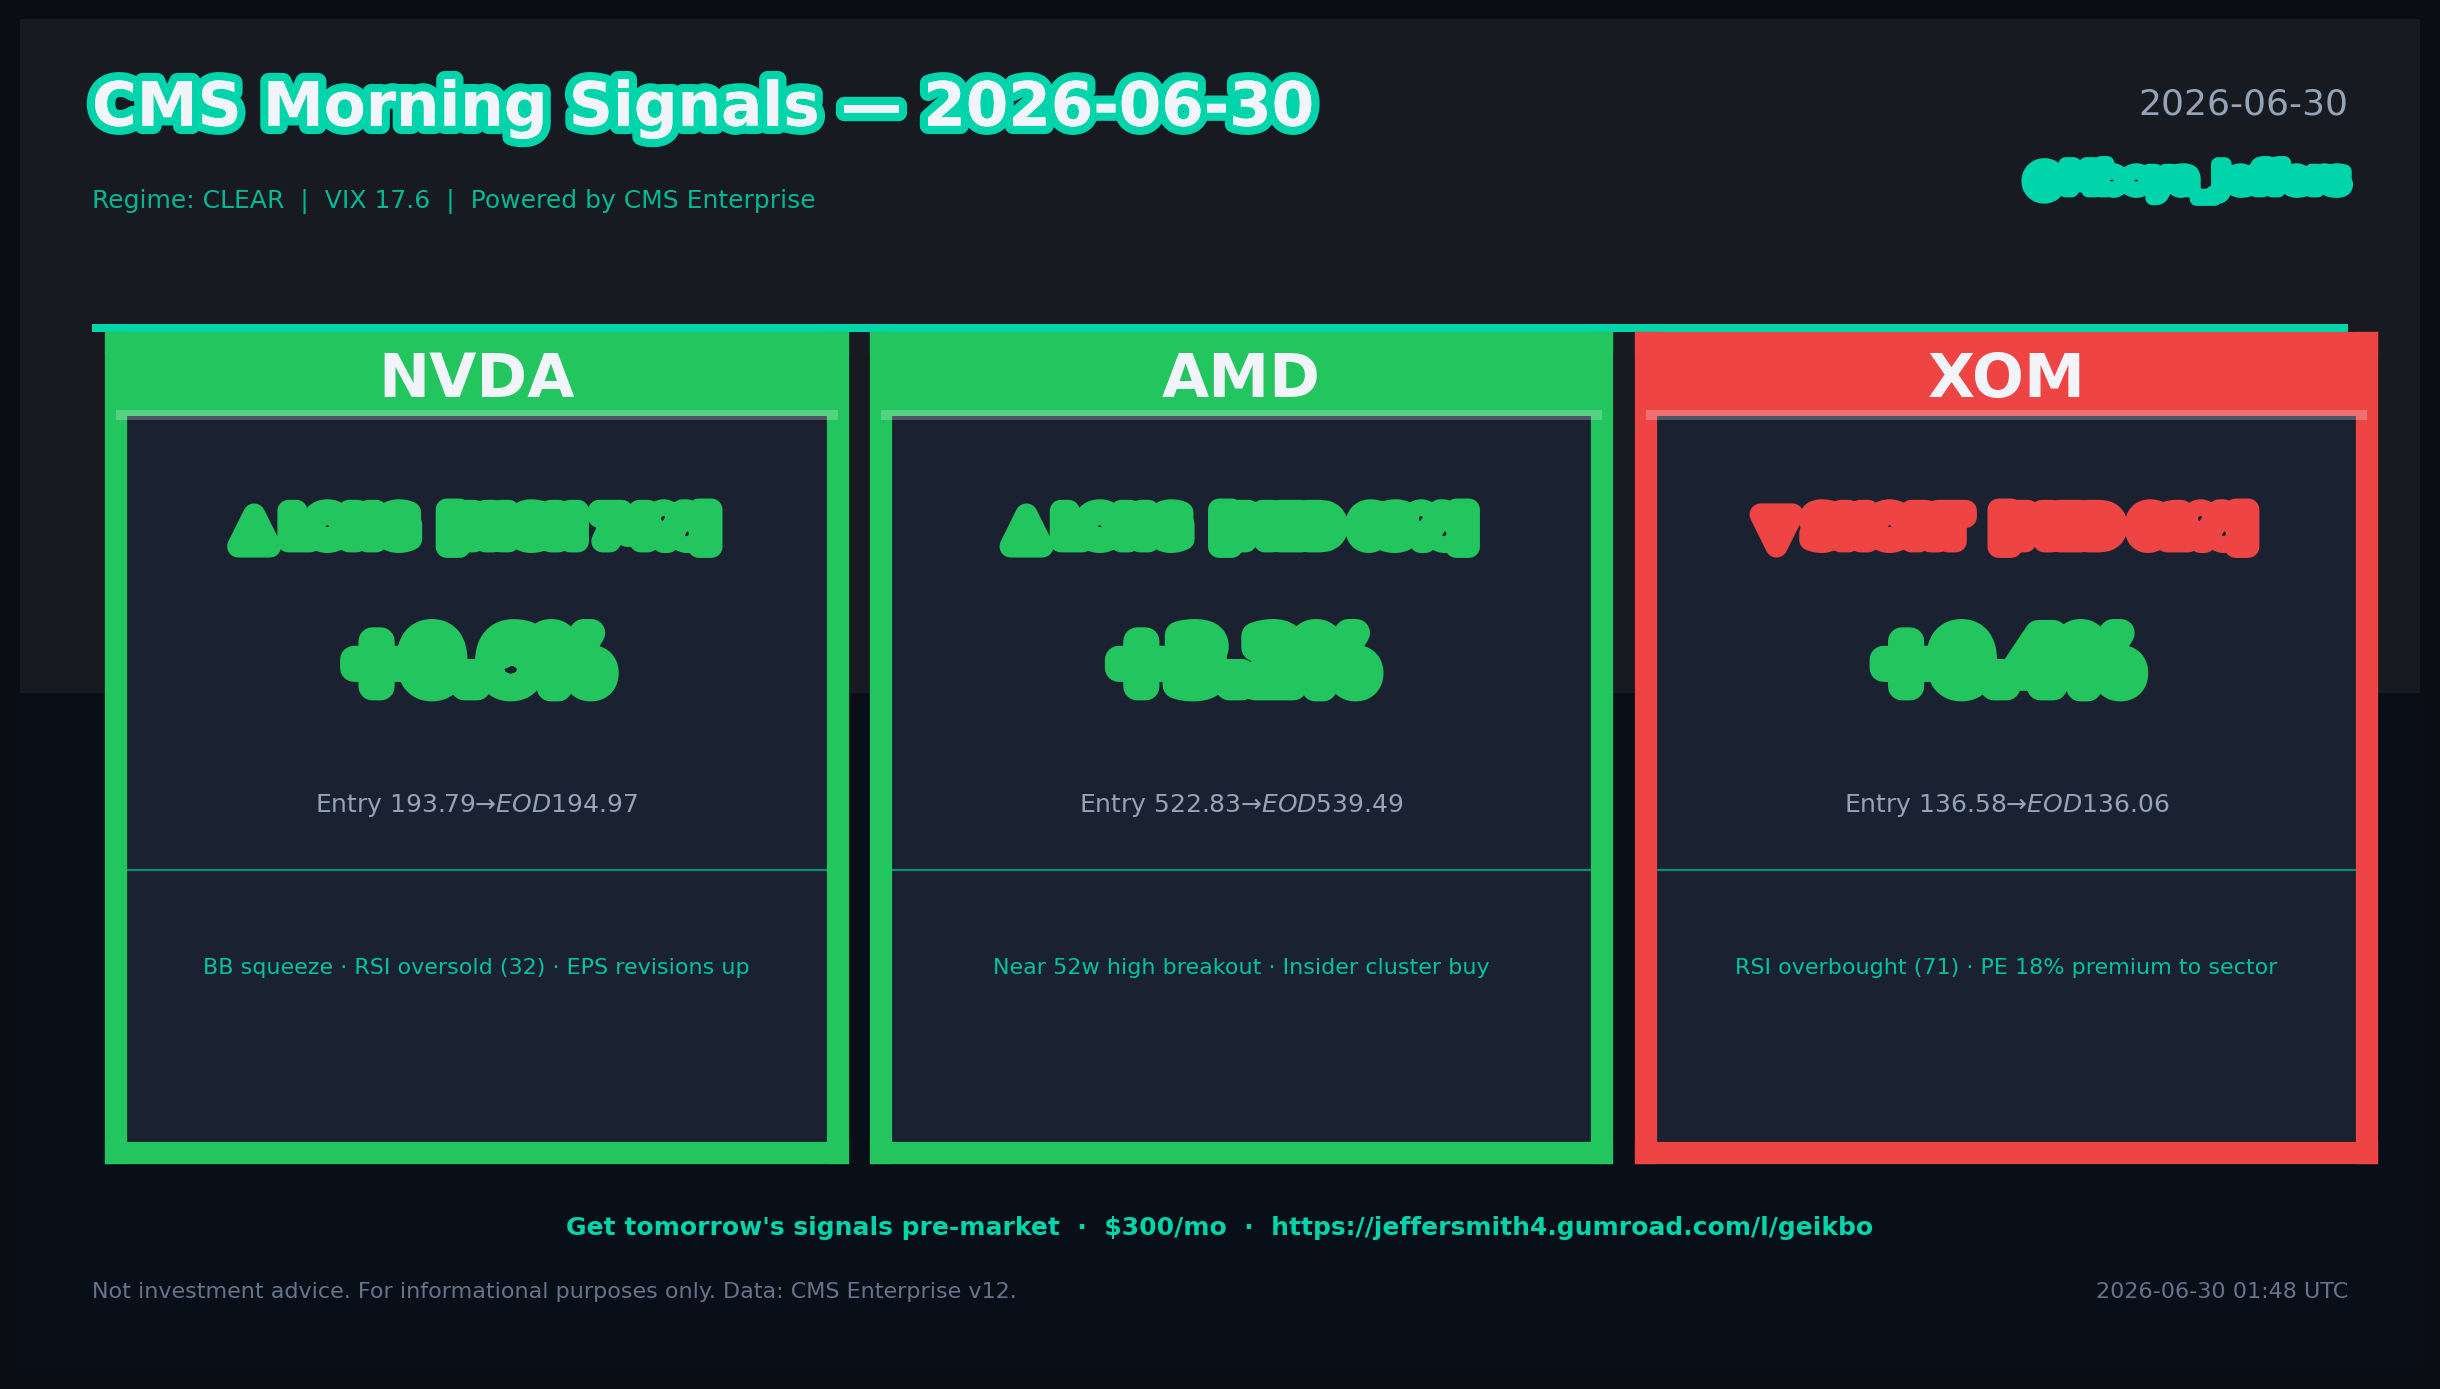
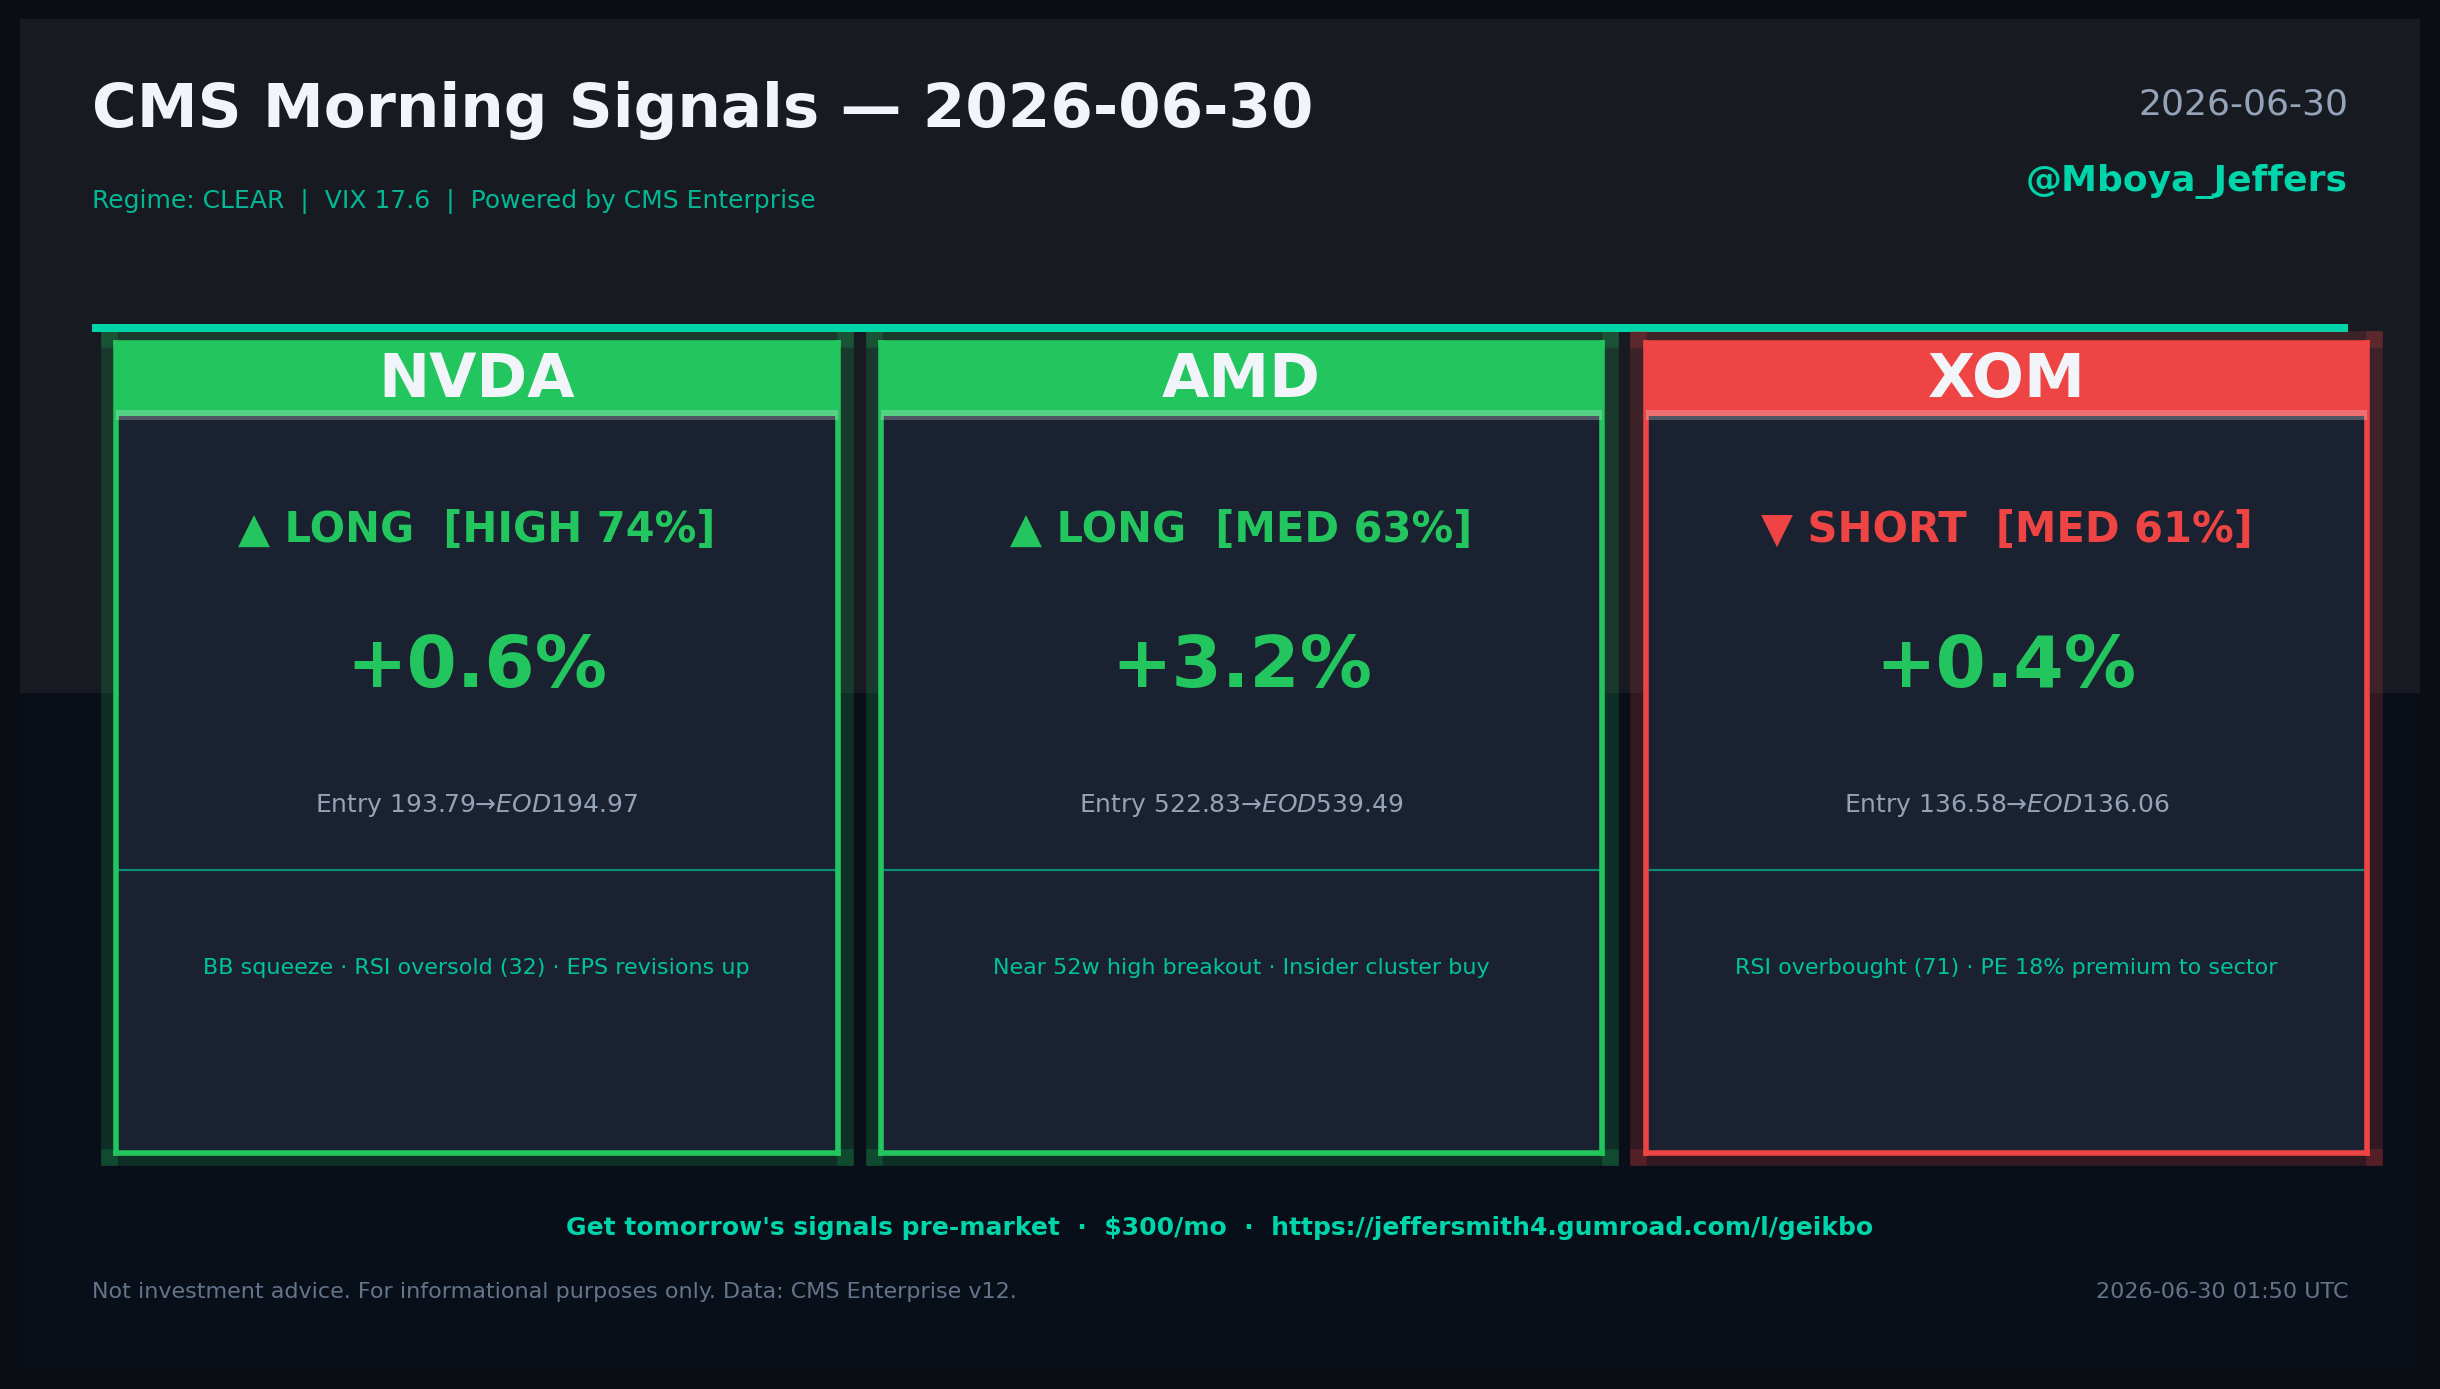
Fix signal block formatting, card showcase component, dark luminescence
- signal-block: s-line divs for proper line separation + spacing, centered max-width
- card-preview: redesigned as CMS-style card component with gradient top border + hover glow
- body::after + .bg-secondary::after: radial glow overlays for dark luminescence
- Updated sample card (clean text, no path_effects bubble letters)

diff --git a/signals/index.html b/signals/index.html
@@ -36,6 +36,21 @@ body {
     overflow-x: hidden;
 }
 
+/* ── DARK LUMINESCENCE ───────────────────────────────────────────────────── */
+body::after {
+    content: '';
+    position: fixed; inset: 0; pointer-events: none; z-index: 0;
+    background:
+        radial-gradient(ellipse 90% 60% at 50% 0%, rgba(0,212,170,0.05) 0%, transparent 65%),
+        radial-gradient(ellipse 60% 40% at 80% 80%, rgba(59,130,246,0.04) 0%, transparent 60%);
+}
+section, .ticker-wrap, .card-preview-section { position: relative; }
+.bg-secondary::after {
+    content: '';
+    position: absolute; inset: 0; pointer-events: none;
+    background: radial-gradient(ellipse 80% 50% at 50% 110%, rgba(0,212,170,0.04) 0%, transparent 65%);
+}
+
 /* ── NAV ──────────────────────────────────────────────────────────────────── */
 nav {
     position: fixed; top: 0; left: 0; right: 0; z-index: 1000;
@@ -193,36 +208,45 @@ h1 {
 }
 .stat-label { font-size: 0.85rem; color: var(--text-muted); margin-top: 0.2rem; }
 
-/* ── CARD PREVIEW ────────────────────────────────────────────────────────── */
-.card-preview-section {
-    padding: 0 2rem 5rem;
-    position: relative; z-index: 1;
+/* ── CARD SHOWCASE ───────────────────────────────────────────────────────── */
+.card-showcase-section {
+    padding: 0 2rem 2rem;
 }
-.card-label {
-    text-align: center;
-    font-family: 'Space Mono', monospace;
-    font-size: 0.72rem; letter-spacing: 0.15em;
-    text-transform: uppercase; color: var(--text-muted);
-    margin-bottom: 1rem;
-}
-.card-preview-inner {
-    max-width: 1000px; margin: 0 auto;
-}
-.card-preview-inner img {
-    width: 100%; border-radius: 12px;
+.card-showcase-wrap {
+    max-width: 1060px; margin: 0 auto;
+    background: var(--bg-card);
     border: 1px solid var(--border-color);
-    box-shadow:
-        0 0 0 1px rgba(0,212,170,0.1),
-        0 20px 60px rgba(0,0,0,0.5),
-        0 0 40px rgba(0,212,170,0.07);
-    display: block;
-    transition: box-shadow 0.3s;
+    border-radius: 16px;
+    padding: 2.5rem;
+    position: relative; overflow: hidden;
+    transition: border-color 0.3s, box-shadow 0.3s;
 }
-.card-preview-inner img:hover {
-    box-shadow:
-        0 0 0 1px rgba(0,212,170,0.22),
-        0 20px 60px rgba(0,0,0,0.6),
-        0 0 60px rgba(0,212,170,0.14);
+.card-showcase-wrap:hover {
+    border-color: var(--accent-cyan);
+    box-shadow: 0 0 40px rgba(0,212,170,0.08), 0 20px 60px rgba(0,0,0,0.4);
+}
+.card-showcase-wrap::before {
+    content: '';
+    position: absolute; top: 0; left: 0; right: 0; height: 2px;
+    background: var(--gradient-1); opacity: 0.6;
+}
+.card-showcase-label {
+    display: flex; align-items: center; gap: 0.75rem;
+    margin-bottom: 1.5rem;
+}
+.card-showcase-tag {
+    font-family: 'Space Mono', monospace;
+    font-size: 0.68rem; letter-spacing: 0.2em;
+    text-transform: uppercase; color: var(--accent-cyan);
+}
+.card-showcase-pipe { color: var(--border-color); }
+.card-showcase-sub {
+    font-size: 0.8rem; color: var(--text-muted);
+}
+.card-showcase-wrap img {
+    width: 100%; border-radius: 8px;
+    border: 1px solid var(--border-color);
+    display: block;
 }
 
 /* ── TICKER TAPE ────────────────────────────────────────────────────────── */
@@ -342,24 +366,41 @@ section { padding: 6rem 2rem; }
 .signal-block {
     background: var(--bg-card);
     border: 1px solid var(--border-color);
-    border-radius: 12px; padding: 2rem;
+    border-radius: 12px;
+    padding: 2.5rem 3rem;
     font-family: 'Space Mono', monospace;
-    font-size: 0.82rem; line-height: 1.7;
+    font-size: 0.82rem;
     position: relative; overflow: hidden;
     margin-top: 3rem;
+    max-width: 820px;
+    margin-left: auto;
+    margin-right: auto;
 }
 .signal-block::before {
     content: 'LIVE SIGNAL FORMAT';
-    position: absolute; top: 1rem; right: 1.5rem;
+    position: absolute; top: 1.2rem; right: 1.5rem;
     font-size: 0.6rem; letter-spacing: 0.18em;
-    color: var(--accent-cyan); opacity: 0.5;
+    color: var(--accent-cyan); opacity: 0.45;
+    font-family: 'Space Mono', monospace;
 }
-.s-key  { color: var(--text-muted); }
-.s-long { color: var(--accent-green); }
-.s-sht  { color: var(--accent-red); }
+.signal-block::after {
+    content: '';
+    position: absolute; top: 0; left: 0; right: 0; height: 3px;
+    background: linear-gradient(90deg, transparent, var(--accent-cyan), transparent);
+    opacity: 0.4;
+}
+.s-line {
+    display: flex; align-items: baseline; gap: 0.5rem;
+    line-height: 2;
+}
+.s-line.gap { height: 0.8rem; }
+.s-line.cmt { opacity: 0.45; }
+.s-key  { color: var(--text-muted); white-space: pre; flex-shrink: 0; }
+.s-long { color: var(--accent-green); font-weight: 700; }
+.s-sht  { color: var(--accent-red); font-weight: 700; }
 .s-cy   { color: var(--accent-cyan); }
 .s-val  { color: var(--text-primary); }
-.s-cmt  { color: #3a5060; }
+.s-cmt  { color: #3a5060; font-style: italic; }
 
 /* ── PRICING ─────────────────────────────────────────────────────────────── */
 .pricing-wrap {
@@ -555,10 +596,14 @@ footer {
 </section>
 
 <!-- CARD PREVIEW -->
-<div class="card-preview-section">
-  <div class="card-preview-inner">
-    <p class="card-label">Sample signal output card — posted publicly @Mboya_Jeffers at 4:15pm ET daily</p>
-    <img src="signal_card_sample.png" alt="CMS Morning Signals — sample output card showing NVDA LONG, AMD LONG, XOM SHORT with confidence scores and reasoning">
+<div class="card-showcase-section">
+  <div class="card-showcase-wrap">
+    <div class="card-showcase-label">
+      <span class="card-showcase-tag">Signal Output</span>
+      <span class="card-showcase-pipe">·</span>
+      <span class="card-showcase-sub">Posted publicly @Mboya_Jeffers · 4:15pm ET daily</span>
+    </div>
+    <img src="signal_card_sample.png" alt="CMS Morning Signals — NVDA LONG, AMD LONG, XOM SHORT with confidence scores and EOD results">
   </div>
 </div>
 
@@ -690,20 +735,20 @@ footer {
 
     <!-- Signal format example -->
     <div class="signal-block">
-<span class="s-cmt"># CMS Morning Signal — Telegram delivery 6:15am ET</span>
-<span class="s-key">date:      </span><span class="s-val">2026-06-30</span>
-<span class="s-key">regime:    </span><span class="s-cy">CLEAR  (VIX 17.6  |  SPY above 200-DMA)</span>
-
-<span class="s-key">signal_1:  </span><span class="s-val">NVDA  </span><span class="s-long">LONG [HIGH 74%]</span>
-<span class="s-key">  reason:  </span><span class="s-val">BB squeeze · RSI oversold (32) · EPS revisions up</span>
-
-<span class="s-key">signal_2:  </span><span class="s-val">AMD   </span><span class="s-long">LONG [MED 63%]</span>
-<span class="s-key">  reason:  </span><span class="s-val">Near 52w high breakout · Insider cluster buy</span>
-
-<span class="s-key">signal_3:  </span><span class="s-val">XOM   </span><span class="s-sht">SHORT [MED 61%]</span>
-<span class="s-key">  reason:  </span><span class="s-val">RSI overbought (71) · PE 18% premium to sector</span>
-
-<span class="s-cmt"># Not investment advice. For informational purposes only.</span>
+      <div class="s-line cmt"><span class="s-cmt"># CMS Morning Signal — Telegram delivery 6:15am ET</span></div>
+      <div class="s-line"><span class="s-key">date:     </span><span class="s-val">2026-06-30</span></div>
+      <div class="s-line"><span class="s-key">regime:   </span><span class="s-cy">CLEAR &nbsp;(VIX 17.6 &nbsp;|&nbsp; SPY above 200-DMA)</span></div>
+      <div class="s-line gap"></div>
+      <div class="s-line"><span class="s-key">signal_1: </span><span class="s-val">NVDA &nbsp;</span><span class="s-long">LONG &nbsp;[HIGH 74%]</span></div>
+      <div class="s-line"><span class="s-key">  reason: </span><span class="s-val">BB squeeze · RSI oversold (32) · EPS revisions up</span></div>
+      <div class="s-line gap"></div>
+      <div class="s-line"><span class="s-key">signal_2: </span><span class="s-val">AMD &nbsp;&nbsp;</span><span class="s-long">LONG &nbsp;[MED 63%]</span></div>
+      <div class="s-line"><span class="s-key">  reason: </span><span class="s-val">Near 52w high breakout · Insider cluster buy</span></div>
+      <div class="s-line gap"></div>
+      <div class="s-line"><span class="s-key">signal_3: </span><span class="s-val">XOM &nbsp;&nbsp;</span><span class="s-sht">SHORT [MED 61%]</span></div>
+      <div class="s-line"><span class="s-key">  reason: </span><span class="s-val">RSI overbought (71) · PE 18% premium to sector</span></div>
+      <div class="s-line gap"></div>
+      <div class="s-line cmt"><span class="s-cmt"># Not investment advice. For informational purposes only.</span></div>
     </div>
 
   </div>